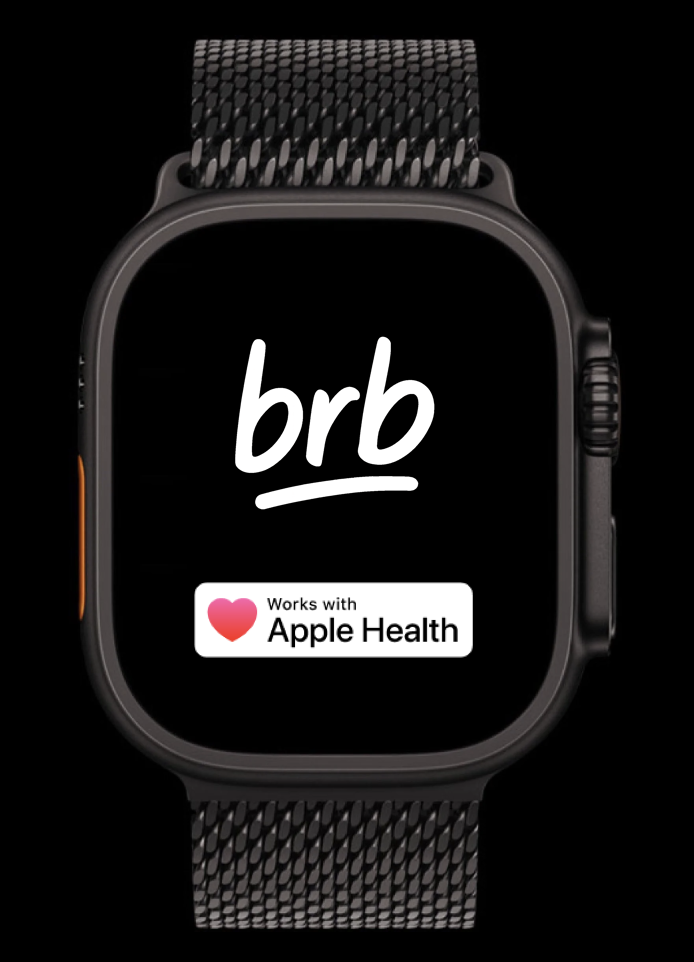
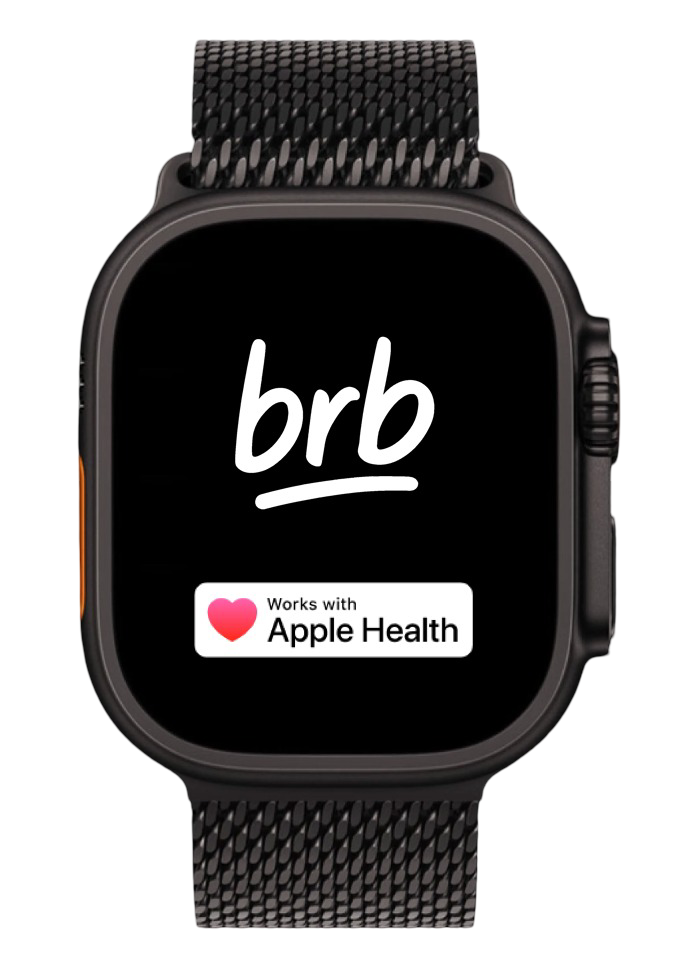
Reduce font sizes and adjust spacing to match Brainrot reference
- Hero: Reduced headline from text-8xl to text-7xl max
- Hero: Reduced subtitle from text-2xl to text-xl/2xl responsive
- Hero: Reduced bullets from text-lg to text-base/lg responsive
- Hero: Reduced phone mockup from max-w-md to max-w-sm (384px)
- Hero: Fixed social proof bar spacing (mb-8 to mb-4/6)
- Benefits: Reduced stats from text-6xl to text-5xl max
- Benefits: Reduced labels from text-xl to text-base/lg
- Apple Health: Reduced headline from text-7xl to text-6xl max
- Apple Health: Reduced body text from text-2xl to text-xl max
- Contact: Updated email to berightbackapp@gmail.com
- Updated watch.png with transparent background

diff --git a/app/components/Hero.tsx b/app/components/Hero.tsx
@@ -28,7 +28,7 @@ export default function Hero() {
           initial={{ opacity: 0, y: -10 }}
           animate={{ opacity: 1, y: 0 }}
           transition={{ duration: 0.4 }}
-          className="flex items-center justify-center lg:justify-start gap-2 text-sm text-text-muted mb-8"
+          className="flex items-center justify-center lg:justify-start gap-2 text-sm text-text-muted mb-4 lg:mb-6"
         >
           <div className="flex text-yellow-400">
             {'★★★★★'}
@@ -47,7 +47,7 @@ export default function Hero() {
               initial={{ opacity: 0, y: 20 }}
               animate={{ opacity: 1, y: 0 }}
               transition={{ duration: 0.6, delay: 0.1 }}
-              className="text-5xl md:text-6xl lg:text-7xl xl:text-8xl font-extrabold leading-[1.05] lg:leading-[1.1] mb-6"
+              className="text-4xl md:text-5xl lg:text-6xl xl:text-7xl font-extrabold leading-[1.05] lg:leading-[1.1] mb-6"
             >
               Move first.{' '}
               <span className="text-primary-green">Scroll later.</span>
@@ -58,7 +58,7 @@ export default function Hero() {
               initial={{ opacity: 0, y: 20 }}
               animate={{ opacity: 1, y: 0 }}
               transition={{ duration: 0.6, delay: 0.2 }}
-              className="text-xl md:text-2xl text-text-light mb-8 max-w-2xl mx-auto lg:mx-0"
+              className="text-lg md:text-xl lg:text-2xl text-text-light mb-8 max-w-2xl mx-auto lg:mx-0"
             >
               Your apps will be right back. After you move.
             </motion.p>
@@ -85,7 +85,7 @@ export default function Hero() {
                   <svg className="w-6 h-6 text-primary-green flex-shrink-0 mt-0.5" fill="currentColor" viewBox="0 0 20 20">
                     <path fillRule="evenodd" d="M16.707 5.293a1 1 0 010 1.414l-8 8a1 1 0 01-1.414 0l-4-4a1 1 0 011.414-1.414L8 12.586l7.293-7.293a1 1 0 011.414 0z" clipRule="evenodd" />
                   </svg>
-                  <p className="text-lg text-text-light">{item}</p>
+                  <p className="text-base md:text-lg text-text-light">{item}</p>
                 </motion.div>
               ))}
             </motion.div>
@@ -119,7 +119,7 @@ export default function Hero() {
                 scale: 1
               }}
               transition={{ duration: 0.8, delay: 0.9 }}
-              className="relative w-full max-w-md lg:max-w-md"
+              className="relative w-full max-w-sm lg:max-w-sm"
             >
               <motion.div
                 animate={{
@@ -134,8 +134,8 @@ export default function Hero() {
                 <Image
                   src="/hero-phone.png"
                   alt="brb app interface on iPhone"
-                  width={448}
-                  height={896}
+                  width={384}
+                  height={768}
                   className="w-full h-auto drop-shadow-2xl"
                   priority
                 />

diff --git a/app/components/AppleHealthCompatibility.tsx b/app/components/AppleHealthCompatibility.tsx
@@ -16,15 +16,15 @@ export default function AppleHealthCompatibility() {
             transition={{ duration: 0.6 }}
             className="text-center lg:text-left"
           >
-            <h2 className="text-4xl md:text-5xl lg:text-6xl xl:text-7xl font-bold mb-8">
+            <h2 className="text-3xl md:text-4xl lg:text-5xl xl:text-6xl font-bold mb-8">
               Works with Apple Health
             </h2>
 
-            <p className="text-xl md:text-2xl text-text-light mb-6 leading-relaxed">
+            <p className="text-lg md:text-xl text-text-light mb-6 leading-relaxed">
               Apple Watch, Oura Ring, Whoop, Garmin, Fitbit, or any device that syncs to Apple Health.
             </p>
 
-            <p className="text-xl md:text-2xl text-text-muted leading-relaxed">
+            <p className="text-lg md:text-xl text-text-muted leading-relaxed">
               No smartwatch? No problem. Just keep your iPhone in your pocket and move.
             </p>
           </motion.div>

diff --git a/app/components/Benefits.tsx b/app/components/Benefits.tsx
@@ -48,7 +48,7 @@ function CountUpNumber({ value, suffix }: { value: string; suffix: string }) {
   }, [isInView, numericValue]);
 
   return (
-    <div ref={ref} className="text-5xl md:text-6xl font-bold text-primary-green">
+    <div ref={ref} className="text-4xl md:text-5xl font-bold text-primary-green">
       {isNaN(numericValue) ? value : count}
       {suffix}
     </div>
@@ -70,7 +70,7 @@ export default function Benefits() {
               className="text-center"
             >
               <CountUpNumber value={stat.value} suffix={stat.suffix} />
-              <p className="text-lg md:text-xl text-text-muted mt-3 whitespace-pre-line">
+              <p className="text-base md:text-lg text-text-muted mt-3 whitespace-pre-line">
                 {stat.label}
               </p>
             </motion.div>

diff --git a/app/contact/page.tsx b/app/contact/page.tsx
@@ -21,7 +21,7 @@ export default function ContactPage() {
     );
     
     // Open user's email client
-    window.location.href = `mailto:betterdailyapp@gmail.com?subject=${subject}&body=${body}`;
+    window.location.href = `mailto:berightbackapp@gmail.com?subject=${subject}&body=${body}`;
     
     // Show success message
     setStatus("success");
